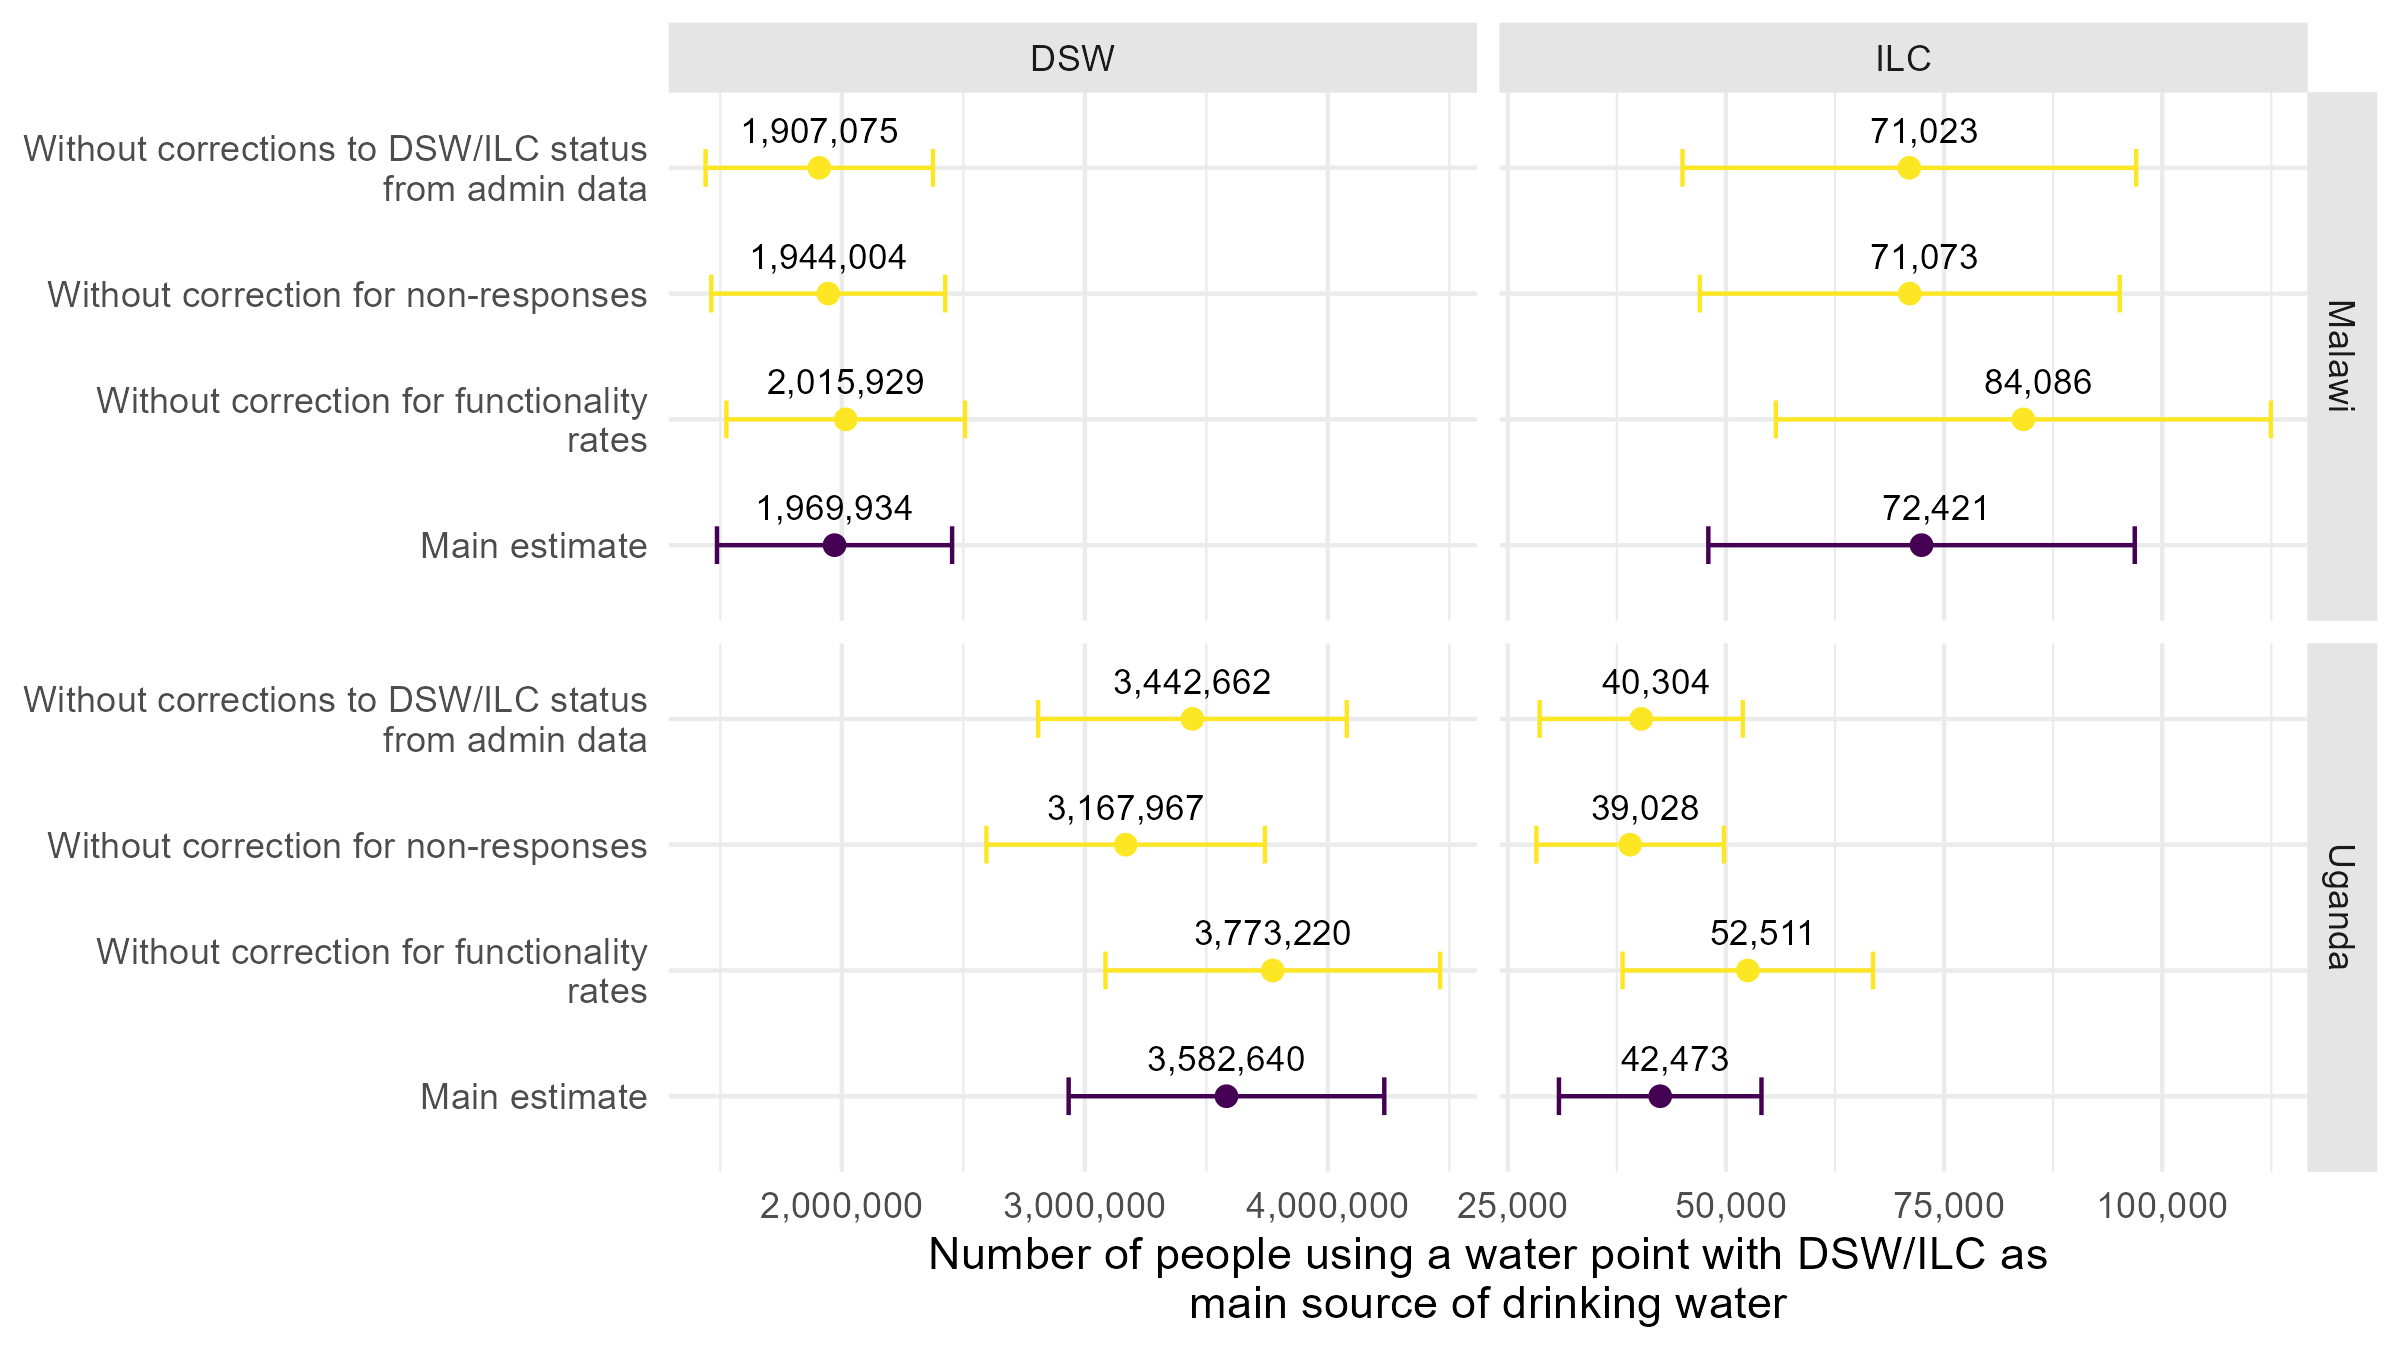
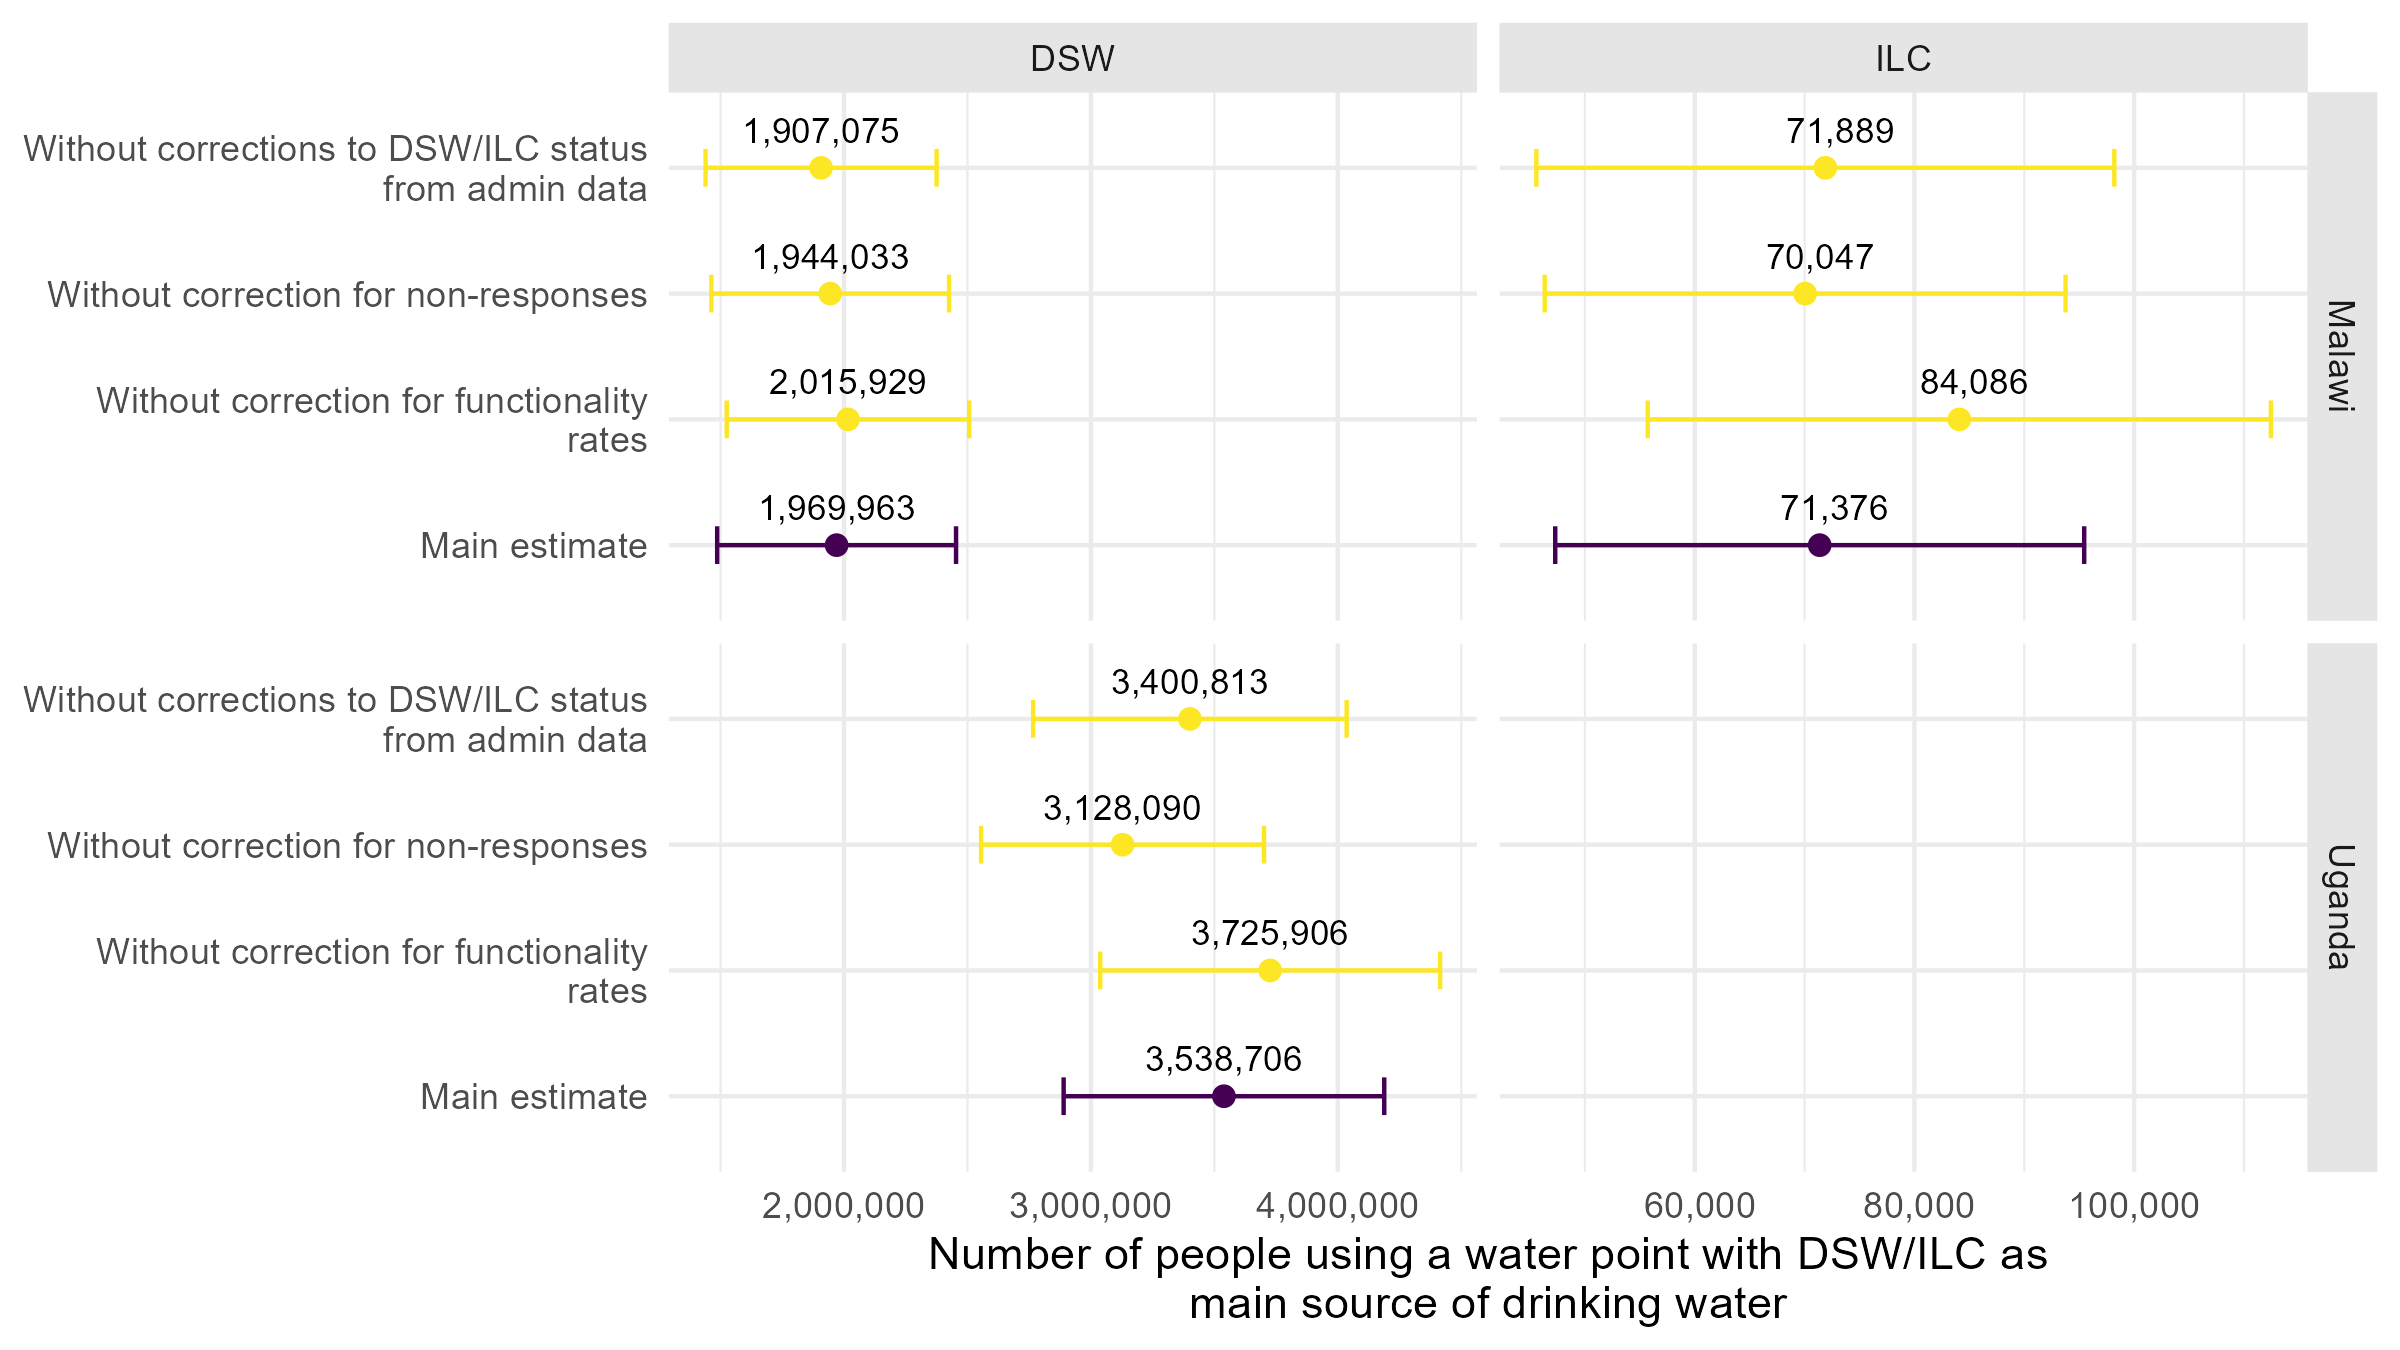
remove Uganda ILC

diff --git a/Report/output/tables/headlines-wp-by-group.tex b/Report/output/tables/headlines-wp-by-group.tex
@@ -3,7 +3,7 @@
 \caption{\label{tab:headlines-wp-by-group}Primary outcomes estimated using the water point as the unit of reference}
 \centering
 \resizebox{\ifdim\width>\linewidth\linewidth\else\width\fi}{!}{
-\begin{tabular}[H]{cccccccccc}
+\begin{tabular}[t]{cccccccccc}
 \toprule
 \multicolumn{1}{c}{ } & \multicolumn{1}{c}{ } & \multicolumn{1}{c}{(1)} & \multicolumn{1}{c}{(2)} & \multicolumn{1}{c}{(3)} & \multicolumn{1}{c}{(4)} & \multicolumn{1}{c}{(5)} & \multicolumn{1}{c}{(6)} & \multicolumn{1}{c}{(7)} & \multicolumn{1}{c}{(8)} \\
 \multicolumn{2}{c}{ } & \multicolumn{2}{c}{Household census} & \multicolumn{2}{c}{Country-level estimates} & \multicolumn{4}{c}{Percent of color wheel readings ≥ 0.2 ppm} \\
@@ -16,20 +16,16 @@
 \hspace{1em} &  &  &  &  & (943,956, 1,876,962) &  &  & (17.1, 36.8) & (12.1, 31.2)\\
 \hspace{1em}DSW & Footprint & 50 & 1,312 & 3,844 & 436,524 & 45 & 440 & 30.3 & 21.7\\
 \hspace{1em} &  &  &  &  & (316,286, 556,762) &  &  & (20.7, 39.8) & (15, 28.3)\\
-\hspace{1em}DSW & ILC & 62 & 1,708 & 1,062 & 122,951 & 55 & 319 & 20.7 & 18.4\\
-\hspace{1em} &  &  &  &  & (79,147, 166,754) &  &  & (13.8, 27.6) & (11.7, 25.2)\\
-\hspace{1em}ILC & ILC & 140 & 1,267 & 2,024 & 72,421 & 95 & 389 & 28.9 & 13.8\\
-\hspace{1em} &  &  &  &  & (47,989, 96,853) &  &  & (19.1, 38.7) & (8, 19.5)\\
+\hspace{1em}DSW & ILC & 62 & 1,708 & 1,062 & 122,980 & 55 & 319 & 20.7 & 18.4\\
+\hspace{1em} &  &  &  &  & (79,166, 166,794) &  &  & (13.8, 27.6) & (11.7, 25.2)\\
+\hspace{1em}ILC & ILC & 140 & 1,267 & 2,024 & 71,376 & 95 & 389 & 28.9 & 13.8\\
+\hspace{1em} &  &  &  &  & (47,296, 95,455) &  &  & (19.1, 38.7) & (8, 19.5)\\
 \addlinespace[0.3em]
 \multicolumn{10}{l}{\textbf{Uganda}}\\
 \hspace{1em}DSW & Expansion & 117 & 4,024 & 12,262 & 2,451,712 & 95 & 574 & 32.1 & 20.7\\
 \hspace{1em} &  &  &  &  & (1,861,370, 3,042,055) &  &  & (24.9, 39.4) & (14.5, 26.8)\\
 \hspace{1em}DSW & Footprint & 57 & 1,969 & 5,456 & 1,086,994 & 55 & 547 & 28 & 18\\
 \hspace{1em} &  &  &  &  & (816,740, 1,357,248) &  &  & (19.4, 36.5) & (10.8, 25.2)\\
-\hspace{1em}DSW & ILC & 92 & 1,874 & 398 & 43,934 & 78 & 408 & 11.7 & 4.5\\
-\hspace{1em} &  &  &  &  & (29,635, 58,233) &  &  & (8.2, 15.2) & (2.3, 6.7)\\
-\hspace{1em}ILC & ILC & 177 & 1,284 & 1,229 & 42,473 & 109 & 287 & 17.8 & 5.2\\
-\hspace{1em} &  &  &  &  & (30,868, 54,077) &  &  & (11.7, 23.9) & (2.1, 8.3)\\
 \bottomrule
 \end{tabular}}
 \end{table}

diff --git a/Report/output/tables/headlines-wp.tex b/Report/output/tables/headlines-wp.tex
@@ -2,8 +2,8 @@
 \centering
 \caption{\label{tab:headlines-wp}Primary outcomes estimated using the water point as the unit of reference}
 \centering
-\resizebox{\ifdim\width<\linewidth\linewidth\else\width\fi}{!}{
-\begin{tabular}[H]{ccccccccc}
+\resizebox{\ifdim\width>\linewidth\linewidth\else\width\fi}{!}{
+\begin{tabular}[t]{ccccccccc}
 \toprule
 \multicolumn{1}{c}{ } & \multicolumn{1}{c}{(1)} & \multicolumn{1}{c}{(2)} & \multicolumn{1}{c}{(3)} & \multicolumn{1}{c}{(4)} & \multicolumn{1}{c}{(5)} & \multicolumn{1}{c}{(6)} & \multicolumn{1}{c}{(7)} & \multicolumn{1}{c}{(8)} \\
 \multicolumn{1}{c}{ } & \multicolumn{2}{c}{Household census} & \multicolumn{2}{c}{Country-level estimates} & \multicolumn{4}{c}{Percent of color wheel readings ≥ 0.2 ppm} \\
@@ -12,16 +12,14 @@ Intervention & \#Vil & \#HHs & \#Vil & \makecell[c]{People using\\DSW/ILC\\(95\%
 \midrule
 \addlinespace[0.3em]
 \multicolumn{9}{l}{\textbf{Malawi}}\\
-\hspace{1em}DSW & 193 & 5,197 & 16,198 & 1,969,934 & 175 & 1,255 & 26.6 & 20.9\\
-\hspace{1em} &  &  &  & (1,486,197, 2,453,670) &  &  & (21.1, 32) & (16.1, 25.7)\\
-\hspace{1em}ILC & 140 & 1,267 & 2,024 & 72,421 & 95 & 377 & 28.9 & 13.8\\
-\hspace{1em} &  &  &  & (47,989, 96,853) &  &  & (19.1, 38.7) & (8, 19.5)\\
+\hspace{1em}DSW & 193 & 5,197 & 16,198 & 1,969,963 & 175 & 1,255 & 26.6 & 20.9\\
+\hspace{1em} &  &  &  & (1,486,225, 2,453,700) &  &  & (21.1, 32) & (16.1, 25.7)\\
+\hspace{1em}ILC & 140 & 1,267 & 2,024 & 71,376 & 95 & 377 & 28.9 & 13.8\\
+\hspace{1em} &  &  &  & (47,296, 95,455) &  &  & (19.1, 38.7) & (8, 19.5)\\
 \addlinespace[0.3em]
 \multicolumn{9}{l}{\textbf{Uganda}}\\
-\hspace{1em}DSW & 266 & 7,867 & 18,116 & 3,582,640 & 228 & 1,379 & 24.7 & 15\\
-\hspace{1em} &  &  &  & (2,933,220, 4,232,060) &  &  & (20.3, 29.2) & (11.4, 18.7)\\
-\hspace{1em}ILC & 177 & 1,284 & 1,229 & 42,473 & 109 & 286 & 17.8 & 5.2\\
-\hspace{1em} &  &  &  & (30,868, 54,077) &  &  & (11.7, 23.9) & (2.1, 8.3)\\
+\hspace{1em}DSW & 174 & 5,993 & 18,116 & 3,538,706 & 150 & 978 & 30.1 & 19.4\\
+\hspace{1em} &  &  &  & (2,889,444, 4,187,968) &  &  & (24.5, 35.7) & (14.7, 24.1)\\
 \bottomrule
 \end{tabular}}
 \end{table}
